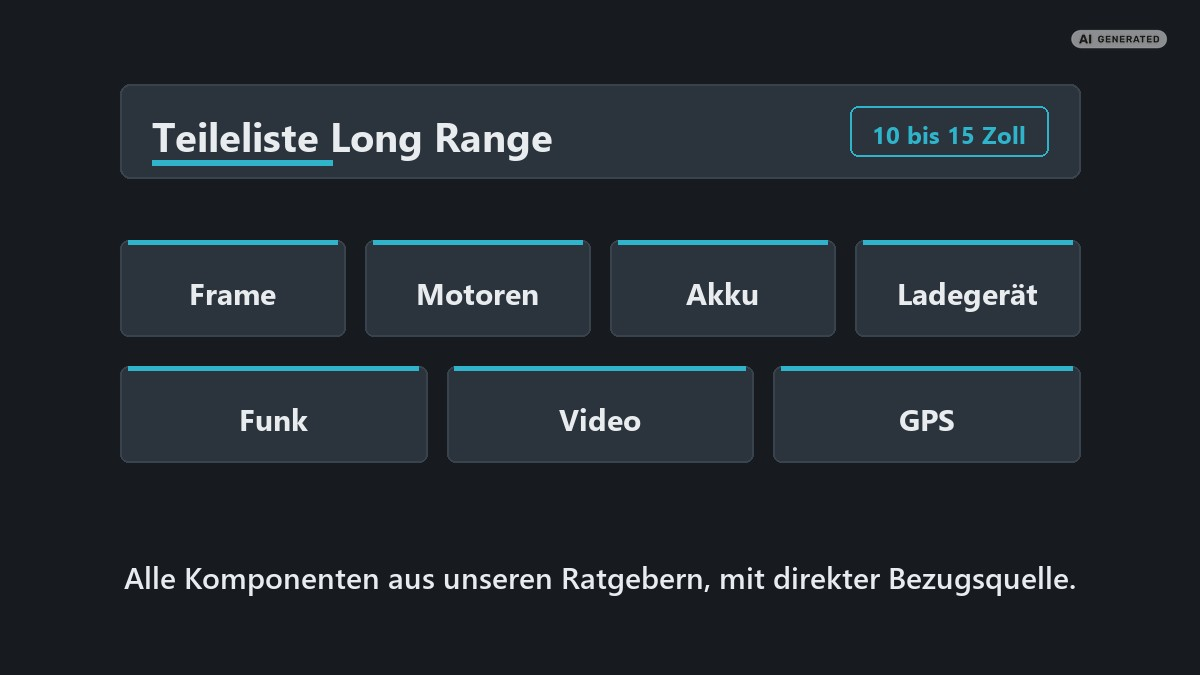
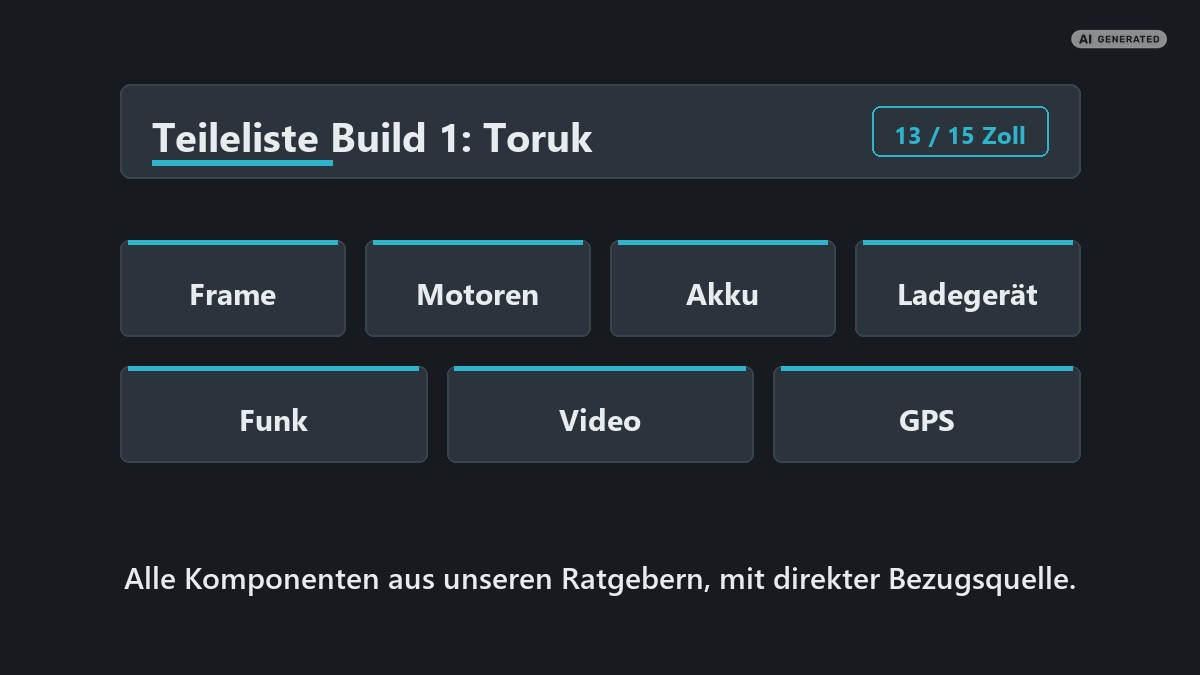
Teilelisten: Build 2 (Manta/Axisflying/iFlight) + Build-1-Schaerfung
Neue Teileliste "Build 2 (Manta)": 10-Zoll-Build auf Basis des
Axisflying MANTA10 Lite Frame Kits mit den hauseigenen AE3115-Motoren
(900KV, 3-6S), DarwinFPV 3115 als Alternative und dem iFlight BLITZ H7
Pro Combo-Set (E80 Pro 4-in-1, 2-8S) als Stack; Hinweis auf die Manta
13 X Lite (13 Zoll gibt es nur als BNF) und den AZ4320 fuer den
13-Zoll-Pfad.  T-Motor ehrlich eingeordnet: XMM3115 nur als
Custom-Motor auf Anfrage.

Bestehende Teileliste zu "Build 1 (Toruk)" geschaerft: Fokus 13/15
Zoll, T-Motor Antigravity MN4012 KV400 als Motor-Alternative ergaenzt,
10-Zoll-Komponenten nach Build 2 umgezogen, Querverweise in beide
Richtungen.  Startseiten-Karussell um die zweite Kachel erweitert,
Sitemap ergaenzt, Schaubilder aus teileliste_hero.py.

Changed region(s): [[0.2775, 0.1867, 0.4933, 0.2489], [0.7092, 0.1556, 0.8017, 0.2489]]

diff --git a/ratgeber-teileliste-manta.html b/ratgeber-teileliste-manta.html
@@ -3,25 +3,25 @@
 <head>
 <meta charset="utf-8">
 <meta name="viewport" content="width=device-width, initial-scale=1">
-<title>Teileliste Long Range Build 1 — Toruk-Basis mit 13 und 15 Zoll | Draco Labs</title>
-<meta name="description" content="Kuratierte Teileliste für Long-Range-Multicopter mit 13 und 15 Zoll auf Toruk-Basis: Frame, Motoren, Akku, Ladegerät, Funk und Videoübertragung, mit Bezugsquellen und Links zu den Ratgebern.">
-<meta name="keywords" content="FPV Teileliste, Long Range Drohne Teile, 13 Zoll Frame, X-Class Frame, 8S LiPo, FPV Komponenten kaufen">
+<title>Teileliste Long Range Build 2 — Manta-Basis mit 10 Zoll | Draco Labs</title>
+<meta name="description" content="Teileliste für den 10-Zoll-Long-Range-Build auf Axisflying-Manta-Basis: Frame, Motoren, iFlight-Stack, Akku, Ladegerät, Funk und Videoübertragung mit Bezugsquellen und Links zu den Ratgebern.">
+<meta name="keywords" content="FPV Teileliste, 10 Zoll Long Range, Axisflying Manta, MANTA10 Lite, AE3115, iFlight BLITZ H7 Pro, 6S LiPo">
 <meta name="robots" content="index, follow">
-<link rel="canonical" href="https://dracolabsgermany.com/ratgeber-teileliste-long-range.html">
+<link rel="canonical" href="https://dracolabsgermany.com/ratgeber-teileliste-manta.html">
 
 <!-- Open Graph (Facebook, LinkedIn, WhatsApp) -->
 <meta property="og:type" content="article">
-<meta property="og:title" content="Teileliste Long Range Build 1 — Toruk-Basis mit 13 und 15 Zoll">
-<meta property="og:description" content="Die Komponenten aus unseren Ratgebern an einem Ort: Frame, Motoren, Akku, Ladegerät, Funk, Videoübertragung und GPS mit direkten Bezugsquellen.">
-<meta property="og:url" content="https://dracolabsgermany.com/ratgeber-teileliste-long-range.html">
+<meta property="og:title" content="Teileliste Long Range Build 2 — Manta-Basis mit 10 Zoll">
+<meta property="og:description" content="Der 10-Zoll-Build auf Basis des Axisflying MANTA10 Lite: Frame, Motoren, iFlight-Stack, Akku, Funk, Videoübertragung und GPS mit direkten Bezugsquellen.">
+<meta property="og:url" content="https://dracolabsgermany.com/ratgeber-teileliste-manta.html">
 <meta property="og:image" content="https://dracolabsgermany.com/assets/logo.png">
 <meta property="og:site_name" content="Draco Labs Germany">
 <meta property="og:locale" content="de_DE">
 
 <!-- Twitter/X Card -->
 <meta name="twitter:card" content="summary_large_image">
-<meta name="twitter:title" content="Teileliste Long Range Build 1 — Toruk-Basis mit 13 und 15 Zoll">
-<meta name="twitter:description" content="Frame, Motoren, Akku, Ladegerät, Funk, Videoübertragung und GPS für Long-Range-Builds, mit Bezugsquellen.">
+<meta name="twitter:title" content="Teileliste Long Range Build 2 — Manta-Basis mit 10 Zoll">
+<meta name="twitter:description" content="Frame, Motoren, iFlight-Stack, Akku, Ladegerät, Funk, Videoübertragung und GPS für den 10-Zoll-Build, mit Bezugsquellen.">
 <meta name="twitter:image" content="https://dracolabsgermany.com/assets/logo.png">
 
 <link rel="icon" type="image/png" href="assets/emblem.png">
@@ -50,13 +50,13 @@
 <main class="legal">
   <div class="wrap">
 
-    <h1>Teileliste Long Range: Build 1 (Toruk)</h1>
-    <p class="muted" style="font-size:17px; margin-top:-4px">Die Komponenten aus unseren Ratgebern an einem Ort: Frame, Motoren, Akku, Ladegerät, Funk und Videoübertragung für Builds mit 13 und 15 Zoll auf Basis der Toruk-Frames.  Den kompakteren 10-Zoll-Build auf Manta-Basis findest du in der <a href="ratgeber-teileliste-manta.html">Teileliste Build 2 (Manta)</a>.</p>
+    <h1>Teileliste Long Range: Build 2 (Manta)</h1>
+    <p class="muted" style="font-size:17px; margin-top:-4px">Der 10-Zoll-Build auf Basis des Axisflying MANTA10 Lite: Frame, Motoren, Stack, Akku, Ladegerät, Funk und Videoübertragung mit direkten Bezugsquellen.  Das größere Schwesterprojekt mit 13 und 15 Zoll steht in der <a href="ratgeber-teileliste-long-range.html">Teileliste Build 1 (Toruk)</a>.</p>
     <p class="muted">Teileliste · Long-Range &amp; Heavy-Lift · Stand: August 2026</p>
 
     <div data-nosnippet style="background:var(--panel); border:1px solid var(--line); border-left:3px solid var(--cyan); border-radius:10px; padding:18px 20px; margin:22px 0">
       <p style="margin:0 0 8px; font-weight:700; letter-spacing:.04em; text-transform:uppercase; font-size:13px; color:var(--cyan)">Kurz gesagt</p>
-      <p style="margin:0">Diese Seite ist die Einkaufsliste zu unseren Ratgebern: pro Kategorie die Komponenten, die wir dort im Detail erklären, mit direkter Bezugsquelle.  Sie ist ein <strong>Startpunkt, kein garantiert kompatibles Komplett-Set</strong>: Motor-KV, ESC-Strom und Props müssen zur Zellenzahl und zum Einsatzprofil passen.  Wer neu im FPV ist, spart mit unserer <a href="https://shop.dracolabsgermany.com/products/beratung-einsteiger">Einsteiger-Beratung</a> vor dem ersten Bestellklick meist mehr, als sie kostet.</p>
+      <p style="margin:0">Diese Seite ist die Einkaufsliste für unseren zweiten Long-Range-Build: kompakter als Build 1, auf 10 Zoll und 6S, mit dem Manta-Frame und den Motoren von Axisflying und der Stack-Kombo von iFlight.  Sie ist ein <strong>Startpunkt, kein garantiert kompatibles Komplett-Set</strong>: Motor-KV, ESC-Strom, Lochbild und Props müssen zur Zellenzahl und zum Einsatzprofil passen.  Wer neu im FPV ist, spart mit unserer <a href="https://shop.dracolabsgermany.com/products/beratung-einsteiger">Einsteiger-Beratung</a> vor dem ersten Bestellklick meist mehr, als sie kostet.</p>
     </div>
 
     <p class="muted" style="font-size:14px"><strong>Anzeige:</strong> Die mit (Anzeige) markierten Links sind Affiliate-Links zu unseren Partnern.  Kaufst du darüber, erhalten wir eine Provision, für dich ändert sich am Preis nichts.  Empfohlen wird nur, was in unseren Ratgebern fachlich hergeleitet ist.</p>
@@ -65,10 +65,10 @@
     <div data-nosnippet>
 <table>
       <tr><th>Kategorie</th><th>Unsere Auswahl</th><th>Ratgeber dazu</th></tr>
-      <tr><td>Frame (Carbon)</td><td>Toruk 13 / Toruk 15 Frame Kit</td><td><a href="ratgeber-carbon-frame.html">Carbon verstehen</a></td></tr>
-      <tr><td>Motoren</td><td>DarwinFPV 4320, alternativ T-Motor MN4012 KV400</td><td><a href="ratgeber-carbon-frame.html">Carbon verstehen</a></td></tr>
-      <tr><td>FC/ESC-Stack</td><td>T-Motor Velox F7 SE + V70A SE (8S)</td><td></td></tr>
-      <tr><td>Akku</td><td>Ovonic ROAM 6S/8S</td><td><a href="ratgeber-akku-13-zoll.html">Du und dein Akku</a></td></tr>
+      <tr><td>Frame (Carbon)</td><td>Axisflying MANTA10 Lite Frame Kit</td><td><a href="ratgeber-carbon-frame.html">Carbon verstehen</a></td></tr>
+      <tr><td>Motoren</td><td>Axisflying AE3115 (900KV), alternativ DarwinFPV 3115</td><td><a href="ratgeber-carbon-frame.html">Carbon verstehen</a></td></tr>
+      <tr><td>FC/ESC-Stack</td><td>iFlight BLITZ H7 Pro Combo + E80 Pro 4-in-1 (2-8S)</td><td></td></tr>
+      <tr><td>Akku</td><td>Ovonic ROAM 6S</td><td><a href="ratgeber-akku-13-zoll.html">Du und dein Akku</a></td></tr>
       <tr><td>Ladegerät</td><td>ISDT Q8 Max</td><td><a href="ratgeber-ladegeraet-8s.html">Der Akku und sein Ladegerät</a></td></tr>
       <tr><td>Funk: Sender (TX)</td><td>RadioMaster TX16S MKII</td><td><a href="ratgeber-funk-kommunikation.html">Funk &amp; Kommunikation</a></td></tr>
       <tr><td>Funk: Empfänger (RX)</td><td>HGLRC ELRS Gemini Dual oder RadioMaster RP4TD</td><td><a href="ratgeber-funk-kommunikation.html">Funk &amp; Kommunikation</a></td></tr>
@@ -78,64 +78,79 @@
 </div>
 
     <h2>1. Frame: die Carbon-Basis</h2>
-    <p>Wer nicht auf einen eigenen Custom-Frame wartet, startet mit den X-Class-Frames der
-    Toruk-Serie unseres Partners DarwinFPV: 13 Zoll für den wendigeren Build, 15 Zoll für
-    maximale Reichweite.  Was gutes Carbon von schlechtem unterscheidet, steht im
+    <p>Basis dieses Builds ist das <strong>MANTA10 Lite Frame Kit</strong> von Axisflying:
+    True-X-Geometrie mit 440&nbsp;mm Radstand, T700-Carbon, 7&nbsp;mm starke Arme und
+    Props bis 10 Zoll; die Zuladung gibt Axisflying mit 2,5 bis 3&nbsp;kg an.  Was gutes
+    Carbon von schlechtem unterscheidet, steht im
     <a href="ratgeber-carbon-frame.html">Carbon-Ratgeber</a>.</p>
+    <p>Eine 13-Zoll-Manta gibt es übrigens auch, aber nicht als Frame-Kit: Die
+    <strong>Manta 13 X Lite</strong> verkauft Axisflying (Stand August 2026) nur als fertig
+    aufgebaute BNF-Drohne.  Wer die 13-/15-Zoll-Klasse selbst bauen will, findet die
+    Frames in der <a href="ratgeber-teileliste-long-range.html">Teileliste Build 1</a>.</p>
     <p style="margin-top:14px">
-      <a href="https://collabs.shop/eronj6" rel="sponsored noopener" target="_blank">➜ Toruk 13 Frame Kit bei DarwinFPV ansehen (Anzeige)</a><br>
-      <a href="https://collabs.shop/vsorw4" rel="sponsored noopener" target="_blank">➜ Toruk 15 Long-Range Frame Kit bei DarwinFPV ansehen (Anzeige)</a>
+      <a href="https://www.axisflying.com/products/manta10-lite-10inch-fpv-freestyle" rel="noopener" target="_blank">➜ MANTA10 Lite Frame Kit bei Axisflying ansehen</a><br>
+      <a href="https://axisflying.com/products/axisflying-manta-13-x-lite-13inch-fpv-bnf-long-range-heavy-payload-cinematic-drone" rel="noopener" target="_blank">➜ Manta 13 X Lite (fertige BNF-Drohne) bei Axisflying ansehen</a>
     </p>
 
     <h2>2. Motoren</h2>
-    <p>Der <strong>4320</strong> aus dem DarwinFPV-Programm ist der Motor der
-    Toruk13-X-CLASS-Fertigdrohne und für die großen Props der 13-/15-Zoll-Klasse
-    ausgelegt.  Das Gegenstück aus dem Industrieprogramm von T-Motor ist der
-    <strong>Antigravity MN4012 KV400</strong>: auf 6S für große, langsam drehende Props
-    gebaut (T-Motor spezifiziert ihn bis 16-Zoll-Props) und damit die
-    effizienzorientierte Alternative für den 13-Zoll-Build.  Die Motoren für die
-    9-/10-Zoll-Klasse stehen in der
-    <a href="ratgeber-teileliste-manta.html">Teileliste Build 2 (Manta)</a>.  Die KV-Zahl
+    <p>Zum Frame gehört der hauseigene <strong>Axisflying AE3115</strong> mit 900KV:
+    freigegeben für 3S bis 6S und vom Hersteller für Long-Range- und Heavy-Lift-Builds
+    von 8 bis 10 Zoll positioniert, also genau für das MANTA10-Deck.  Die bewährte
+    Alternative ist der <strong>DarwinFPV 3115</strong> (900KV), laut Hersteller für
+    9-10-Zoll-Heavy-Payload-Builds entwickelt, mit bis zu 4,5&nbsp;kg Schub pro Motor.
+    Ein T-Motor-Gegenstück in dieser Klasse existiert, aber nicht im Laden: Den
+    <strong>XMM3115</strong> (900KV, 6S) führt T-Motor als Custom-Motor nur auf Anfrage.</p>
+    <p>Für den späteren Schritt auf 13 Zoll hat Axisflying den <strong>AZ4320</strong>
+    (420KV, 6S bis 8S, laut Hersteller gut 6&nbsp;kg Schub pro Motor) im Programm; das
+    T-Motor-Gegenstück dazu, den Antigravity MN4012 KV400, findest du in der
+    <a href="ratgeber-teileliste-long-range.html">Teileliste Build 1</a>.  Die KV-Zahl
     muss zur Zellenzahl deines Akkus passen; das rechnen wir in der
     <a href="https://shop.dracolabsgermany.com/products/beratung-custombuild">Custom-Build-Beratung</a>
     für deinen Build durch.</p>
     <p style="margin-top:14px">
-      <a href="https://collabs.shop/eoovhg" rel="sponsored noopener" target="_blank">➜ DarwinFPV 4320 Motor ansehen (Anzeige)</a><br>
-      <a href="https://store.tmotor.com/goods-345-MN4012+KV400.html" rel="noopener" target="_blank">➜ T-Motor Antigravity MN4012 KV400 im T-Motor-Store ansehen</a>
+      <a href="https://www.axisflying.com/products/az3115-3-6s-brushless-motor" rel="noopener" target="_blank">➜ Axisflying AE3115 900KV bei Axisflying ansehen</a><br>
+      <a href="https://collabs.shop/huexzp" rel="sponsored noopener" target="_blank">➜ DarwinFPV 3115 Motor ansehen (Anzeige)</a><br>
+      <a href="https://www.axisflying.com/products/4320-brushless-motors-for-13-inch" rel="noopener" target="_blank">➜ Axisflying AZ4320 420KV (13 Zoll) bei Axisflying ansehen</a><br>
+      <a href="https://uav-en.tmotor.com/2026/fpv-motor_0126/1338.html" rel="noopener" target="_blank">➜ T-Motor XMM3115 (Custom-Motor, auf Anfrage) ansehen</a>
     </p>
 
     <h2>3. Flight Controller &amp; ESC</h2>
-    <p>Der T-Motor Velox F7 SE Stack kombiniert einen F7-Flight-Controller
-    (ICM42688-Gyro, 128&nbsp;MB Blackbox, Betaflight und INAV) mit dem V70A SE 4-in-1-ESC
-    mit AM32-Firmware.  Entscheidend für unsere Klasse: Der V70A SE ist laut Hersteller
-    für <strong>4S bis 8S</strong> ausgelegt (70&nbsp;A dauerhaft) und deckt damit die
-    8S-Empfehlung aus dem Akku-Abschnitt ab.  Lochbild 30,5&nbsp;×&nbsp;30,5&nbsp;mm.</p>
+    <p>Auf das Manta-Deck kommt die Stack-Kombo von iFlight: das <strong>BLITZ H7 Pro
+    Combo-Set</strong> aus H743-Flight-Controller (ICM42688-Gyro, Betaflight und
+    ArduPilot) und dem <strong>BLITZ E80 Pro 4-in-1-ESC</strong>.  Der ESC liefert
+    80&nbsp;A dauerhaft (100&nbsp;A Burst) und ist für 2S bis 8S freigegeben: reichlich
+    Reserve für den 6S-Betrieb dieses Builds, und genug für den späteren
+    13-Zoll-Pfad.  Versand aus dem EU-Lager.  Ein Detail gehört vor die Bestellung:
+    Das Combo-Set hat ein 35-x-35-mm-Lochbild, die Flytower-Bohrung des MANTA10 Lite
+    gibt Axisflying mit M3&nbsp;x&nbsp;30,5&nbsp;mm an; ob dein Deck beide Raster
+    aufnimmt, klärst du am besten direkt beim Frame-Kauf.</p>
     <p style="margin-top:14px">
-      <a href="https://n-factory.de/T-Motor-F7-VELOX-SE-Stack-8S-V70A-SE-AM32" rel="noopener" target="_blank">➜ T-Motor F7 VELOX SE Stack (8S) bei n-factory.de ansehen</a>
+      <a href="https://iflight-rc.eu/en/products/blitz-h7-pro-combo-set-e80-pro-4in1-esc" rel="noopener" target="_blank">➜ iFlight BLITZ H7 Pro Combo-Set (E80 Pro 4-in-1) im iFlight-EU-Store ansehen</a>
     </p>
 
     <h2>4. Akku</h2>
-    <p>Für 13 Zoll ist 8S mit 5.200-6.200&nbsp;mAh der Standard (den 6S-Fall für 10 Zoll
-    behandelt die <a href="ratgeber-teileliste-manta.html">Teileliste Build 2</a>); alle
-    Details inklusive C-Rate und Li-Ion-Alternative stehen im
-    <a href="ratgeber-akku-13-zoll.html">Akku-Ratgeber</a>.  Die Ovonic-ROAM-Serie deckt
-    genau diesen Bereich ab, mit XT90-S-Anti-Spark und Versand aus EU-Lager (Akkus sind
-    Gefahrgut, Direktimport lohnt nicht).</p>
+    <p>Der AE3115 ist bis 6S freigegeben, dieser Build fliegt also mit
+    <strong>6S</strong>.  Die Ovonic-ROAM-Serie deckt den Bereich mit 6S-Packs bis
+    8.000&nbsp;mAh ab, mit XT90-S-Anti-Spark und Versand aus EU-Lager (Akkus sind
+    Gefahrgut, Direktimport lohnt nicht).  Welche Kapazität zu welcher Abflugmasse
+    passt und was die C-Rate bedeutet, steht im
+    <a href="ratgeber-akku-13-zoll.html">Akku-Ratgeber</a>.</p>
     <p style="margin-top:14px">
-      <a href="https://www.ampow.com/collections/x-class-drone-batteries?dt_id=3341217" rel="sponsored noopener" target="_blank">➜ Ovonic ROAM X-Class-Akkus bei Ampow ansehen (Anzeige)</a>
+      <a href="https://www.ampow.com/collections/x-class-drone-batteries?dt_id=3341217" rel="sponsored noopener" target="_blank">➜ Ovonic ROAM Akkus bei Ampow ansehen (Anzeige)</a>
     </p>
 
     <h2>5. Ladegerät</h2>
-    <p>Ein 8S-Pack braucht ein Ladegerät, das 8S auch wirklich kann.  Warum wir zum ISDT
-    Q8 Max raten und welche Netzteil-Leistung dahinter stehen muss, erklärt der
-    <a href="ratgeber-ladegeraet-8s.html">Ladegerät-Ratgeber</a>.</p>
+    <p>Beim Ladegerät ändert sich gegenüber Build 1 nichts: Der ISDT Q8 Max lädt die
+    6S-Packs dieses Builds mit großen Reserven und wächst mit, falls später ein
+    8S-Build dazukommt.  Warum wir zu ihm raten und welche Netzteil-Leistung dahinter
+    stehen muss, erklärt der <a href="ratgeber-ladegeraet-8s.html">Ladegerät-Ratgeber</a>.</p>
     <p style="margin-top:14px">
       <a href="https://www.fpv24.com/de/isdt/isdt-q8-max-lipo-ladegeraet-1-8s-1000w-30a-dc-xt60-smart-charger?aid=U-THvRXn" rel="sponsored noopener" target="_blank">➜ ISDT Q8 Max bei FPV24 ansehen (Anzeige)</a>
     </p>
 
     <h2>6. Funk (RC-Link)</h2>
-    <p>Long Range beginnt beim RC-Link: ExpressLRS als System auf beiden Seiten.  Die
-    Herleitung samt Frequenz-Abwägung steht im
+    <p>Der RC-Link ist identisch mit Build 1: ExpressLRS als System auf beiden Seiten.
+    Die Herleitung samt Frequenz-Abwägung steht im
     <a href="ratgeber-funk-kommunikation.html">Funk-Ratgeber</a>.</p>
     <h3>Sender (TX)</h3>
     <p>Die RadioMaster TX16S MKII mit internem ELRS-Modul ist der Arbeitsstandard:
@@ -178,12 +193,11 @@
 
     <h2>Lieber bauen lassen?</h2>
     <p>Props, Verkabelung und die Abstimmung aller Komponenten aufeinander (KV zur
-    Zellenzahl, Stromreserven, Tuning) sind bewusst nicht Teil dieser Liste: genau dort
-    entscheidet sich, ob ein Build zuverlässig fliegt.  Wir stellen dir die vollständige
-    Konfiguration zusammen oder bauen den Copter komplett auf.</p>
+    Zellenzahl, Stromreserven, Lochbild, Tuning) sind bewusst nicht Teil dieser Liste:
+    genau dort entscheidet sich, ob ein Build zuverlässig fliegt.  Wir stellen dir die
+    vollständige Konfiguration zusammen oder bauen den Copter komplett auf.</p>
     <p style="margin-top:14px">
-      <a href="https://shop.dracolabsgermany.com/products/beratung-custombuild">➜ Beratung für dein Custom-Build buchen</a><br>
-      <a href="https://shop.dracolabsgermany.com/products/custombuild-13-15">➜ Custom-Build 13/15 Zoll: Aufbau nach Beratung buchen</a>
+      <a href="https://shop.dracolabsgermany.com/products/beratung-custombuild">➜ Beratung für dein Custom-Build buchen</a>
     </p>
 
     <p class="muted" style="margin-top:34px; font-size:14px">
@@ -194,12 +208,9 @@
 <!-- historie:start -->
     <h2>Änderungshistorie</h2>
     <ul class="muted" style="font-size:14px; line-height:1.9; padding-left:20px">
-      <li><strong>13.08.2026</strong> · Aufteilung in Build 1 (Toruk) und Build 2 (Manta): T-Motor MN4012 KV400 als Motor-Alternative ergänzt, 10-Zoll-Komponenten in die Teileliste Build 2 umgezogen</li>
-      <li><strong>12.08.2026</strong> · Snippet-Schutz: Kurzfassung und Tabellen für Google-Snippets/KI-Overviews gesperrt (data-nosnippet), KI-Trainings-Crawler per robots.txt ausgeschlossen</li>
-      <li><strong>12.08.2026</strong> · Erstveröffentlichung (Go-live) mit Nachträgen am selben Tag; Änderungshistorie eingeführt</li>
+      <li><strong>13.08.2026</strong> · Erstveröffentlichung: 10-Zoll-Build auf Axisflying-Manta-Basis mit iFlight-Stack</li>
     </ul>
 <!-- historie:ende -->
-
 
 
 <!-- partner:start -->

diff --git a/index.html b/index.html
@@ -175,12 +175,22 @@
     <!-- teilelisten:start -->
     <div class="rg-karussell">
       <a class="rg-kachel" href="ratgeber-teileliste-long-range.html">
-        <img src="assets/ratgeber/teileliste-uebersicht.jpg" alt="Schemabild: die sieben Komponentengruppen der Teileliste, von Frame bis GPS"
+        <img src="assets/ratgeber/teileliste-uebersicht.jpg" alt="Schemabild: die sieben Komponentengruppen der Teileliste Build 1, von Frame bis GPS"
              width="1200" height="675" loading="lazy">
         <div class="rg-text">
-          <div class="rg-titel">Teileliste Long Range</div>
-          <div class="rg-teaser">Die Komponenten aus unseren Ratgebern an einem Ort: Frame, Motoren, Akku, Ladegerät,
+          <div class="rg-titel">Build 1: Toruk (13/15 Zoll)</div>
+          <div class="rg-teaser">Der große Long-Range-Build auf Basis der Toruk-Frames: Frame, Motoren, Akku, Ladegerät,
           Funk, Video und GPS, mit direkten Bezugsquellen.</div>
+          <div class="rg-meta">Teileliste</div>
+        </div>
+      </a>
+      <a class="rg-kachel" href="ratgeber-teileliste-manta.html">
+        <img src="assets/ratgeber/teileliste-manta.jpg" alt="Schemabild: die sieben Komponentengruppen der Teileliste Build 2, von Frame bis GPS"
+             width="1200" height="675" loading="lazy">
+        <div class="rg-text">
+          <div class="rg-titel">Build 2: Manta (10 Zoll)</div>
+          <div class="rg-teaser">Der kompakte 10-Zoll-Build auf Manta-Basis: Frame und Motoren von Axisflying, Stack-
+          Kombo von iFlight, dazu Akku, Funk, Video und GPS mit Bezugsquellen.</div>
           <div class="rg-meta">Teileliste</div>
         </div>
       </a>

diff --git a/tools/ratgeber_karussell.py b/tools/ratgeber_karussell.py
@@ -74,13 +74,21 @@ RATGEBER = [
 
 TEILELISTEN = [
     {"datei": "ratgeber-teileliste-long-range.html",
-     "titel": "Teileliste Long Range",
-     "teaser": "Die Komponenten aus unseren Ratgebern an einem Ort: Frame, "
+     "titel": "Build 1: Toruk (13/15 Zoll)",
+     "teaser": "Der große Long-Range-Build auf Basis der Toruk-Frames: Frame, "
                "Motoren, Akku, Ladegerät, Funk, Video und GPS, mit direkten "
                "Bezugsquellen.",
      "bild": "teileliste-uebersicht.jpg",
-     "alt": "Schemabild: die sieben Komponentengruppen der Teileliste, von Frame "
-            "bis GPS"},
+     "alt": "Schemabild: die sieben Komponentengruppen der Teileliste Build 1, "
+            "von Frame bis GPS"},
+    {"datei": "ratgeber-teileliste-manta.html",
+     "titel": "Build 2: Manta (10 Zoll)",
+     "teaser": "Der kompakte 10-Zoll-Build auf Manta-Basis: Frame und Motoren "
+               "von Axisflying, Stack-Kombo von iFlight, dazu Akku, Funk, Video "
+               "und GPS mit Bezugsquellen.",
+     "bild": "teileliste-manta.jpg",
+     "alt": "Schemabild: die sieben Komponentengruppen der Teileliste Build 2, "
+            "von Frame bis GPS"},
 ]
 
 # (Markername, Rubrik in der Meta-Zeile, Datenliste)
